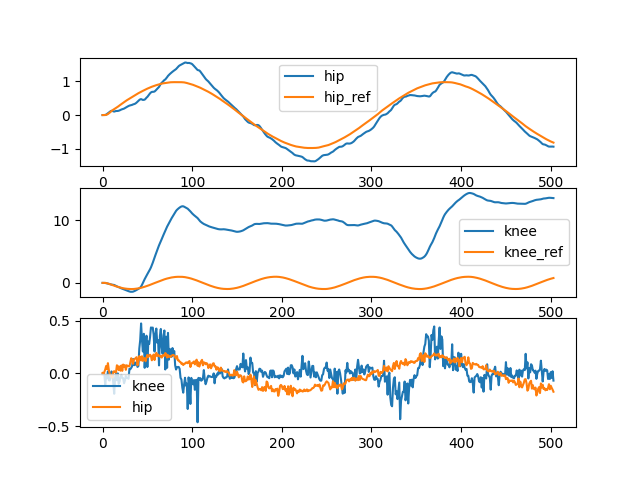
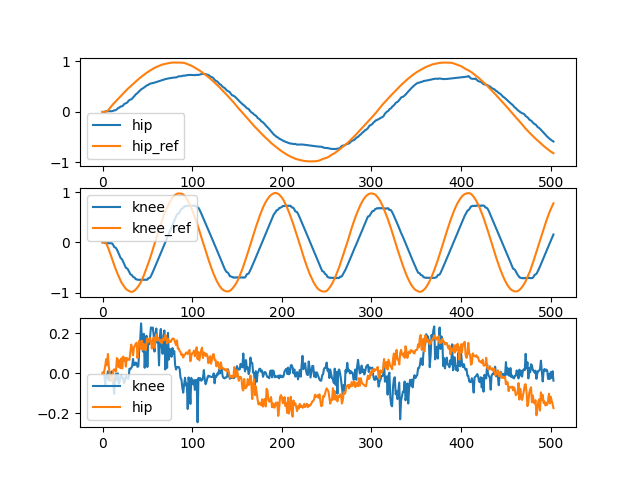
Tested different controller.

diff --git a/walter_test.py b/walter_test.py
@@ -1,3 +1,5 @@
+from typing import Union
+
 import os
 from absl import app
 import time
@@ -8,6 +10,61 @@ import mujoco
 import mujoco.viewer
 
 import matplotlib.pyplot as plt
+
+
+def position_controller(
+    mj_data: mujoco.MjData,
+    desired_position: np.ndarray,
+    desired_velocity: Union[np.ndarray, None] = None,
+    desired_torque: Union[np.ndarray, None] = None,
+) -> np.ndarray:
+    def wrap_angle(angle):
+        return np.arctan2(np.sin(angle), np.cos(angle))
+    # ODrive Controller:
+    kp = 20.0
+    kv = 1.0 / 6.0
+    velocity_limit = 2.0
+    torque_limit = 0.1
+
+    if desired_velocity is None:
+        desired_velocity = np.zeros_like(desired_position)
+    if desired_torque is None:
+        desired_torque = np.zeros_like(desired_position)
+
+    position_error = desired_position - mj_data.qpos
+
+    desired_velocity += kp * position_error
+    desired_velocity = np.clip(
+        desired_velocity, -velocity_limit, velocity_limit,
+    )  # type: ignore
+    velocity_error = desired_velocity - mj_data.qvel
+
+    desired_torque += kv * velocity_error
+    desired_torque = np.clip(
+        desired_torque, -torque_limit, torque_limit,
+    )  # type: ignore
+
+    return desired_torque  # type: ignore
+
+
+def pd_controller(
+    mj_data: mujoco.MjData,
+    desired_position: np.ndarray,
+    desired_velocity: Union[np.ndarray, None] = None,
+) -> np.ndarray:
+    kp = 10.0
+    kd = 2.0
+    torque_limit = 0.1
+
+    if desired_velocity is None:
+        desired_velocity = np.zeros_like(desired_position)
+
+    position_error = desired_position - mj_data.qpos
+    velocity_error = desired_velocity - mj_data.qvel
+    torque = kp * position_error + kd * velocity_error
+    torque = np.clip(torque, -torque_limit, torque_limit)
+
+    return torque
 
 
 def main(argv=None):
@@ -22,7 +79,7 @@ def main(argv=None):
     # Load Replay Data:
     odrive_data = np.loadtxt('test_1.csv', delimiter=',')
     time_vector = odrive_data[:, 0]
-    knee_torque = odrive_data[:, 1] * (36.0 / 19.0)
+    knee_torque = odrive_data[:, 1]
     knee_position = odrive_data[:, 2]
     knee_velocity = odrive_data[:, 3]
     hip_torque = odrive_data[:, 4]
@@ -34,26 +91,35 @@ def main(argv=None):
 
     terminal_condition = False
     position_history = []
-    with mujoco.viewer.launch_passive(mj_model, mj_data) as viewer:
-        while not terminal_condition:
-            for i in range(len(time_vector)):
-                step_time = time.time()
-                mj_data.ctrl = np.array([hip_torque[i], knee_torque[i]])
-                position_history.append(mj_data.qpos.copy())
+    # with mujoco.viewer.launch_passive(mj_model, mj_data) as viewer:
+    while not terminal_condition:
+        for i in range(len(time_vector)):
+            step_time = time.time()
+            # mj_data.ctrl = np.array([hip_torque[i], knee_torque[i]])
+            # ctrl = position_controller(
+            #     mj_data, np.array([hip_position[i], knee_position[i]]),
+            # )
+            # mj_data.ctrl = ctrl
+            ctrl = pd_controller(
+                mj_data, np.array([hip_position[i], knee_position[i]]),
+            )
+            mj_data.ctrl = ctrl
+            position_history.append(mj_data.qpos.copy())
 
-                for _ in range(num_steps):
-                    mujoco.mj_step(mj_model, mj_data)  # type: ignore
+            for _ in range(num_steps):
+                mujoco.mj_step(mj_model, mj_data)  # type: ignore
 
-                viewer.sync()
+            # viewer.sync()
 
-                sleep_time = control_rate - (time.time() - step_time)
-                if sleep_time > 0:
-                    time.sleep(sleep_time)
-        
-            terminal_condition = True
+            sleep_time = control_rate - (time.time() - step_time)
+            if sleep_time > 0:
+                time.sleep(sleep_time)
+
+        terminal_condition = True
 
     position_history = np.asarray(position_history)
-    
+
+
     fig, axs = plt.subplots(3, 1)
     axs[0].plot(position_history[:, 0], label='hip')
     axs[0].plot(hip_position, label='hip_ref')
@@ -66,6 +132,7 @@ def main(argv=None):
     axs[2].legend()
 
     fig.savefig('joint_positions.png')
+
 
 if __name__ == '__main__':
     app.run(main)
